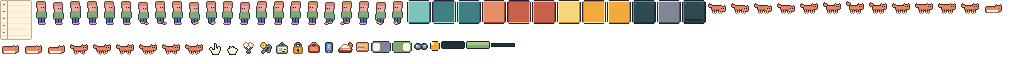
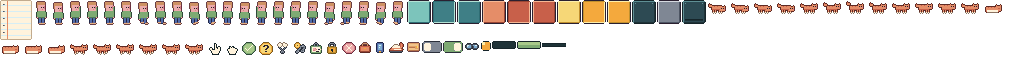
AI-4: keyHook spot frames and tick/hunch/cross marks (task 2)

Changed region(s): [[0.2188, 0.625, 0.5625, 0.875]]

diff --git a/tools/pixelart/spots2.py b/tools/pixelart/spots2.py
@@ -1,0 +1,24 @@
+#!/usr/bin/env python3
+"""Phase 6 extras: wall key hook spot (`spot/keyHook/closed|open`, room-slice) and the three small marks that replace the text glyphs
+(`ui/check` searched tick, `ui/hunch` amber question mark, `ui/ruledOut` red cross; core). Pivot = bottom centre for all.
+Usage: spots2.py <room-slice dir> <core dir>"""
+import json, os, sys
+sys.path.insert(0, os.path.dirname(__file__))
+from dsl import build
+from props import L
+KEY_CLOSED = ["nNNNNNNNNNNn", "nNmNNmNNmNNn", "nNyNNYNNyNNn", "nNYNNyNNYNNn", "nNyNNyNNyNNn", "nnnnnnnnnnnn"]
+KEY_OPEN   = ["nNNNNNNNNNNn", "nNmNNmNNmNNn", "nNyNNoNNyNNn", "nNYNNmNNYNNn", "nNyNNNNNyNNn", "nnnnnnnnnnnn"]
+MARKS = {
+ 'check': ["...gggggg...", "..gGGGGGGg..", ".gGGGGGGGwg.", "gGGGGGGGwGGg", "gGGGGGGwGGGg", "gGwGGGwGGGGg", "gGGwGwGGGGGg", "gGGGwGGGGGGg", ".gGGGGGGGGg.", "..gGGGGGGg..", "...gggggg..."],
+ 'hunch': ["...yyyyyy...", "..yYYYYYYy..", ".yYYiiiiYYy.", "yYYiiYYiiYYy", "yYYYYYYiiYYy", "yYYYYYiiYYYy", "yYYYYiiYYYYy", "yYYYYYYYYYYy", "yYYYYiiYYYYy", ".yYYYYYYYYy.", "..yyyyyyyy.."],
+ 'ruledOut': ["...pppppp...", "..pPPPPPPp..", ".pPwPPPPwPp.", "pPPPwPPwPPPp", "pPPPPwwPPPPp", "pPPPPwwPPPPp", "pPPPwPPwPPPp", ".pPwPPPPwPp.", "..pPPPPPPp..", "...pppppp..."],
+}
+def put(d, key, im):
+    piv = json.load(open(os.path.join(d, 'pivots.json'))) if os.path.exists(os.path.join(d, 'pivots.json')) else {}
+    im.save(os.path.join(d, key.replace('/', '__') + '.png')); piv[key] = {'pivot': [im.width // 2, im.height - 2]}
+    json.dump(piv, open(os.path.join(d, 'pivots.json'), 'w'), indent=0)
+if __name__ == '__main__':
+    slice_dir, core_dir = sys.argv[1], sys.argv[2]
+    put(slice_dir, 'spot/keyHook/closed', build(KEY_CLOSED, L)); put(slice_dir, 'spot/keyHook/open', build(KEY_OPEN, L))
+    for k, rows in MARKS.items(): put(core_dir, f'ui/{k}', build(rows, L))
+    print('spots2 done')

diff --git a/docs/status/AI-4.md b/docs/status/AI-4.md
@@ -8,6 +8,7 @@
 - Task 1(c) wiring check, then plants: new standing frames `prop/pottedFern`, `prop/pottedCactus`, `prop/pottedFlower` (1x1, pivot bottom centre, pot colours terracotta/stone/blue). NOT in game yet: they need registering as kinds (see Requests). Source: tools/pixelart/props2.py (dict T).
 - Task 1(d) windows: shells now have rose curtains (tie-back, folds, darker at dusk/night) via tools/materials/gen.py window_px; the window glow overlay (tools/pixelart/light.py) is now a light dither over the glass only, so frame, muntins and curtains show through. Floor light patch under each window already existed in the shell. Regenerate: gen.py assets/frames, light.py assets/frames/house, pack.py.
 - Task 1(e) part 1, contact shadows: tools/pack/pack.py now bakes a checker-dithered palette `shade` ellipse behind every floor-standing `prop/<kind>` frame in room-slice (kinds parsed from src/content/worldKinds.ts: not flat/top/mount); source PNGs stay clean, frames gain 2 px of canvas at the bottom, pivots unchanged. Shadow sits under the sprite's visible base, not the true footprint, so a few look a pixel or two off.
+- Task 2 spot frames: audit of every spot kind in src/content/house.ts showed all already had `spot/<kind>/closed|open` except `keyHook`; added it (wall key board, 3 hooks with keys; open state shows one empty hook). Added `ui/check`, `ui/hunch`, `ui/ruledOut` marks (12x12, core atlas) to replace the text glyphs in HomeSpots; `ui/padlock` already existed. Source: tools/pixelart/spots2.py <room-slice dir> <core dir>.
 ## Verified
 - `python3 tools/check-frames/check.py assets/frames/room-slice --max 96` -> "141 files, 0 problems".
 - `npm run art:sheet` -> "missing frames: none"; rugs checked by eye in docs/art/evidence/art-sheet.png; bed frames checked enlarged in isolation only (art-sheet does not draw spots).
@@ -17,6 +18,7 @@
 ## Weaknesses (honest, from art-sheet)
 - Same teal spiky plant still used 2-3 times per room; rooms still read 18-29 props with big empty floor; floor-level pieces like the small red tiles look like stray markers.
 ## Requests
+- AI-3: HomeSpots badges still draw text glyphs ('✕', '?'); frames `ui/ruledOut`, `ui/hunch`, `ui/check` (pivot bottom centre) now exist if you want to swap them in. Also confirm where `spot/keyHook` anchors (wall piece at gz 5): I used pivot bottom centre.
 - AI-2/AI-3 (needed to make 1c visible): add `pottedFern`, `pottedCactus`, `pottedFlower` to src/content/worldKinds.ts as `B(1, 1, 4, { sym: true })` (same as pottedPlant) and swap about half of the `pottedPlant` placements in worldPropsA/B.ts so no room repeats one plant more than once. Frames already exist.
 - AI-1: `npm run shots` needs a Chromium; none available to me.
 ## Next
